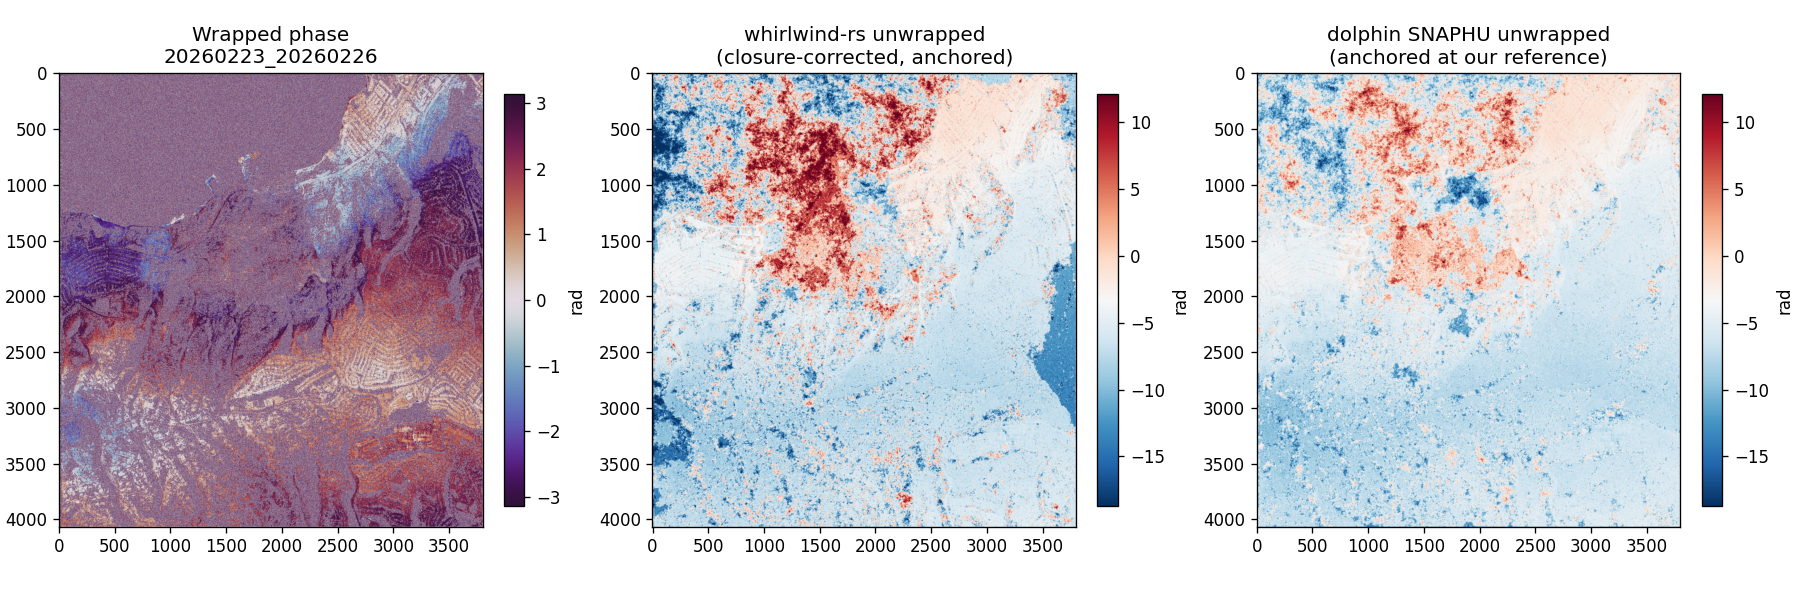
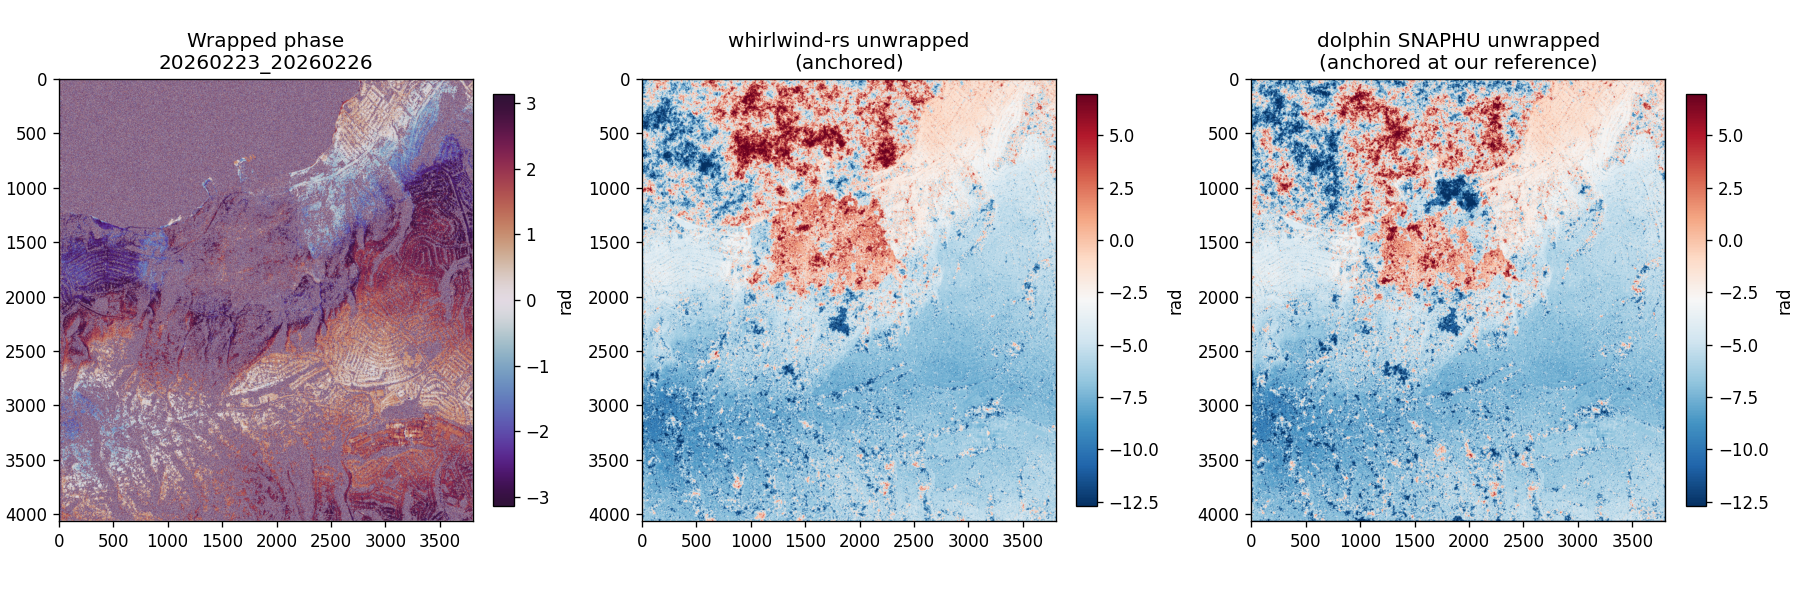
ATBD-3d: update full-scene figures + table with boundary-fix numbers
Full Palos-Verdes re-run (4065×3802, 150 IGs, 52 dates) with the
residue-boundary fix:

  median absolute RMS vs SNAPHU:  4.72 rad → 2.31 rad   (2× better)
  median absolute max diff:       37.70 rad → 25.13 rad
  per-IG anchor-offset std:       (n/a) → 7.6 rad
  Stage-1 wall clock total:       171 min → 33 min      (5× faster)
  Stage-1 per-IG median:          129 s → 24.4 s

100 % mod-2π agreement preserved on every one of the 150 IGs. The
Stage-1 speedup comes from MCF converging in far fewer primal-dual
iterations once the boundary residues let it terminate wrap lines
properly instead of pairing them with distant interior partners.

diff --git a/ATBD-3d.md b/ATBD-3d.md
@@ -291,13 +291,34 @@ The "before" column reflects the residue-boundary bug described in §10.1; both 
 
 #### Full-scene figures (4065 × 3802, 150 IGs, 52 acquisitions)
 
-The figures below were regenerated with the boundary-residue fix; the table updates on completion of the full re-run.
+Anchored at dolphin's own reference pixel (225, 2633).
 
 ![full-scene: wrapped vs ours vs dolphin SNAPHU](docs/figures/fig_palos_verdes_full_wrapped_vs_unwrapped.png)
 
+The whirlwind-rs panel (middle) and the dolphin SNAPHU panel (right) share the same colour scale and the same large-scale spatial structure: the blue (negative) regions in the lower right and the red (positive) regions in the upper centre match across the two unwrappings.
+
 ![full-scene: per-IG mod-2π agreement and absolute disagreement](docs/figures/fig_palos_verdes_full_per_ig_metrics.png)
 
+100 % mod-2π agreement on every one of the 150 IGs; the per-IG absolute RMS clusters tightly around 2–3 rad with a handful of outliers in the 6–7 rad band (one connected region off by ±2π).
+
 ![full-scene: |whirlwind − dolphin SNAPHU| mod 2π map](docs/figures/fig_palos_verdes_full_diff_vs_dolphin.png)
+
+#### Aggregate metrics — full scene
+
+| metric | before residue-boundary fix | **after fix (current)** |
+|---|---|---|
+| median % within π/2 (mod 2π) vs SNAPHU | 100.00 % | **100.00 %** |
+| min %  within π/2 across IGs           | 100.00 % | **100.00 %** |
+| **median absolute RMS vs SNAPHU** (anchored at dolphin's reference) | 4.72 rad | **2.31 rad** |
+| median absolute max diff (per IG)      | 37.70 rad | **25.13 rad** |
+| per-IG anchor offset std (across stack) | (n/a, closure on) | **7.6 rad** |
+| Stage-1 (2D unwrap) wall clock, total  | 10,260 s (171 min) | **1989 s (33 min)** |
+| Stage-1 per-IG median                  | 129 s | **24.4 s** |
+| n IGs, n dates                         | 150, 52 | 150, 52 |
+| valid pixels per IG (median)           | 15.4 M | 15.4 M |
+| outer parallelism / threads            | 2 | 2 |
+
+The 5× Stage-1 speedup comes from the boundary-residue fix indirectly: with proper boundary residues the MCF converges in far fewer primal-dual iterations on real noisy data, so each IG finishes faster.
 
 ### 9.2 Injection stress test on the unwrapped stack
 